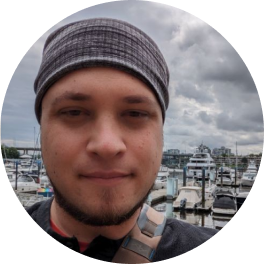
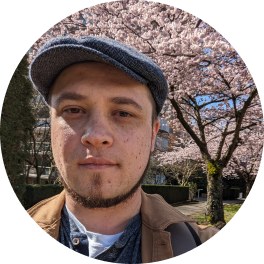
Updated website photo and minor update to site copy.

diff --git a/nickwolldotcom/static/index.html b/nickwolldotcom/static/index.html
@@ -30,7 +30,7 @@
 				I currently work at <mark class="secondary">Relic Entertainment</mark> building server technology for some of gaming's most iconic strategy franchises. Before that, I worked with <mark class="secondary">Electronic Arts</mark> delivering genre-defining live services for Madden Mobile. <mark class="secondary">I’m a generalist engineer</mark> who enjoys architecting new systems and guiding junior engineers in their development.
 			</p>
 			<p>
-				With over eight years of experience in video games and enterprise software, I bring an <mark class="secondary">eye for detail</mark> and a <mark class="secondary">passion for design</mark> to my work.
+				With over a decade of experience in video games and enterprise software, I bring an <mark class="secondary">eye for detail</mark> and a <mark class="secondary">passion for design</mark> to my work.
 			</p> 
 		</section>
 
